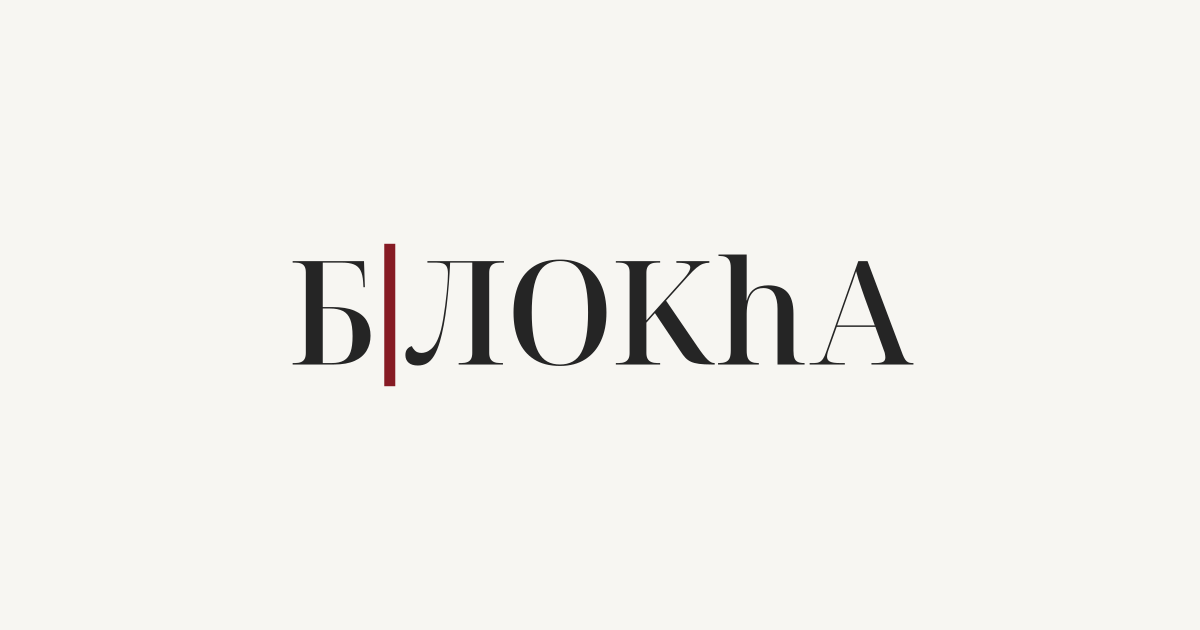
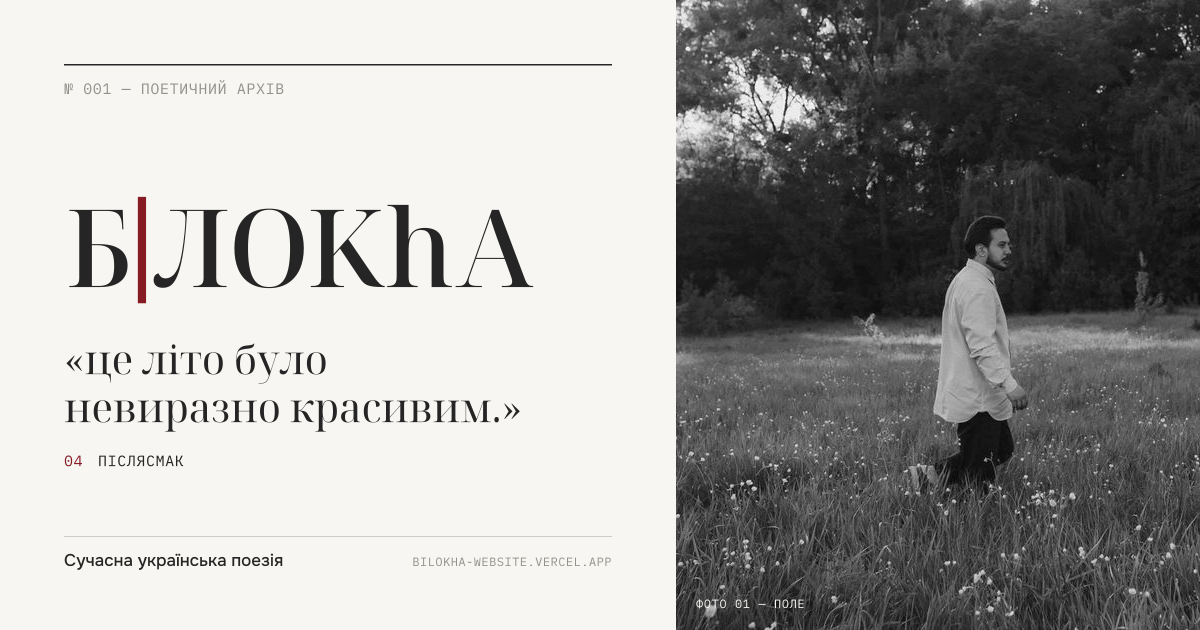
Нові іконки сайту та зображення для соцмереж
- Символ: власна «Б» з продовженим стемом, бордо на теплому білому
- favicon.ico (16/32/48), favicon.svg, PNG 16/32, apple-touch-icon, 192/512, maskable, маніфест
- Нове OG/Twitter-зображення 1200×630: знак, цитата, фото; og:image на всіх сторінках

Claude-Session: https://claude.ai/code/session_017yCdLiK5V92M84kmyQv6Ej

diff --git a/app/layout.tsx b/app/layout.tsx
@@ -16,8 +16,19 @@ export const metadata: Metadata = {
   title: { default: `${site.name} — поетичний архів`, template: `%s — ${site.name}` },
   description: site.description,
   applicationName: site.name,
+  icons: {
+    icon: [
+      { url: '/favicon.ico', sizes: '48x48' },
+      { url: '/favicon.svg', type: 'image/svg+xml' },
+      { url: '/favicon-32x32.png', sizes: '32x32', type: 'image/png' },
+      { url: '/favicon-16x16.png', sizes: '16x16', type: 'image/png' },
+    ],
+    shortcut: '/favicon.ico',
+    apple: [{ url: '/apple-touch-icon.png', sizes: '180x180', type: 'image/png' }],
+  },
   openGraph: {
     type: 'website',
+    url: '/',
     locale: 'uk_UA',
     siteName: site.name,
     title: `${site.name} — поетичний архів`,

diff --git a/app/manifest.ts b/app/manifest.ts
@@ -1,0 +1,21 @@
+import type { MetadataRoute } from 'next';
+import { site } from '@/content/site';
+
+export default function manifest(): MetadataRoute.Manifest {
+  return {
+    name: `${site.name} — поетичний архів`,
+    short_name: site.name,
+    description: site.description,
+    lang: 'uk',
+    start_url: '/',
+    display: 'standalone',
+    background_color: '#F7F6F2',
+    theme_color: '#F7F6F2',
+    icons: [
+      { src: '/icon-192.png', sizes: '192x192', type: 'image/png' },
+      { src: '/icon-512.png', sizes: '512x512', type: 'image/png' },
+      { src: '/icon-maskable-512.png', sizes: '512x512', type: 'image/png', purpose: 'maskable' },
+      { src: '/favicon.svg', sizes: 'any', type: 'image/svg+xml' },
+    ],
+  };
+}

diff --git a/app/poeziia/[slug]/page.tsx b/app/poeziia/[slug]/page.tsx
@@ -22,7 +22,13 @@ export async function generateMetadata({ params }: { params: Promise<Params> }):
     title: p.title,
     description: desc,
     alternates: { canonical: `/poeziia/${p.slug}` },
-    openGraph: { type: 'article', title: `${p.title} — ${site.name}`, description: desc },
+    openGraph: {
+      type: 'article',
+      url: `/poeziia/${p.slug}`,
+      title: `${p.title} — ${site.name}`,
+      description: desc,
+      images: [{ url: '/opengraph-image.png?v=2', width: 1200, height: 630, alt: `${site.name} — поетичний архів` }],
+    },
   };
 }
 

diff --git a/README.md b/README.md
@@ -73,13 +73,16 @@ npm run build      # перевірка продакшн-збірки
 | `bilokha-wordmark-mono.svg` | одноколірний |
 | `bilokha-wordmark-light.svg` | для темного тла / фото |
 | `bilokha-monogram.svg` | монограма «Б|» |
-| `bilokha-favicon.svg`, `bilokha-avatar.svg`, `bilokha-avatar-1080.png` | іконка сайту, аватар для соцмереж |
+| `bilokha-symbol.svg`, `bilokha-symbol-1080.png` | символ: власна «Б» з продовженим стемом — іконка, аватар для соцмереж |
+| `bilokha-og.png` | зображення для поширення посилань (1200×630) |
 | `bilokha-wordmark.png` | растрова версія 2400px |
+
+**Іконки сайту** (`public/`): `favicon.ico` (16/32/48), `favicon.svg`, `favicon-16x16.png`, `favicon-32x32.png`, `apple-touch-icon.png` (180), `icon-192.png`, `icon-512.png`, `icon-maskable-512.png`; маніфест — `app/manifest.ts`. Зображення для Telegram / WhatsApp / Facebook / X — `app/opengraph-image.png` і `app/twitter-image.png`. Усе генерує `brand/tools/icons.mjs`.
 
 Знак генерується скриптом `brand/tools/wordmark.mjs` (трекінг, товщина і висота вертикалі — на початку файла):
 
 ```bash
-npm run brand     # оновлює brand/, public/brand/, іконки та lib/wordmark.ts
+npm run brand     # оновлює brand/, public/brand/, іконки, OG-зображення та lib/wordmark.ts
 ```
 
 ## Типографіка
